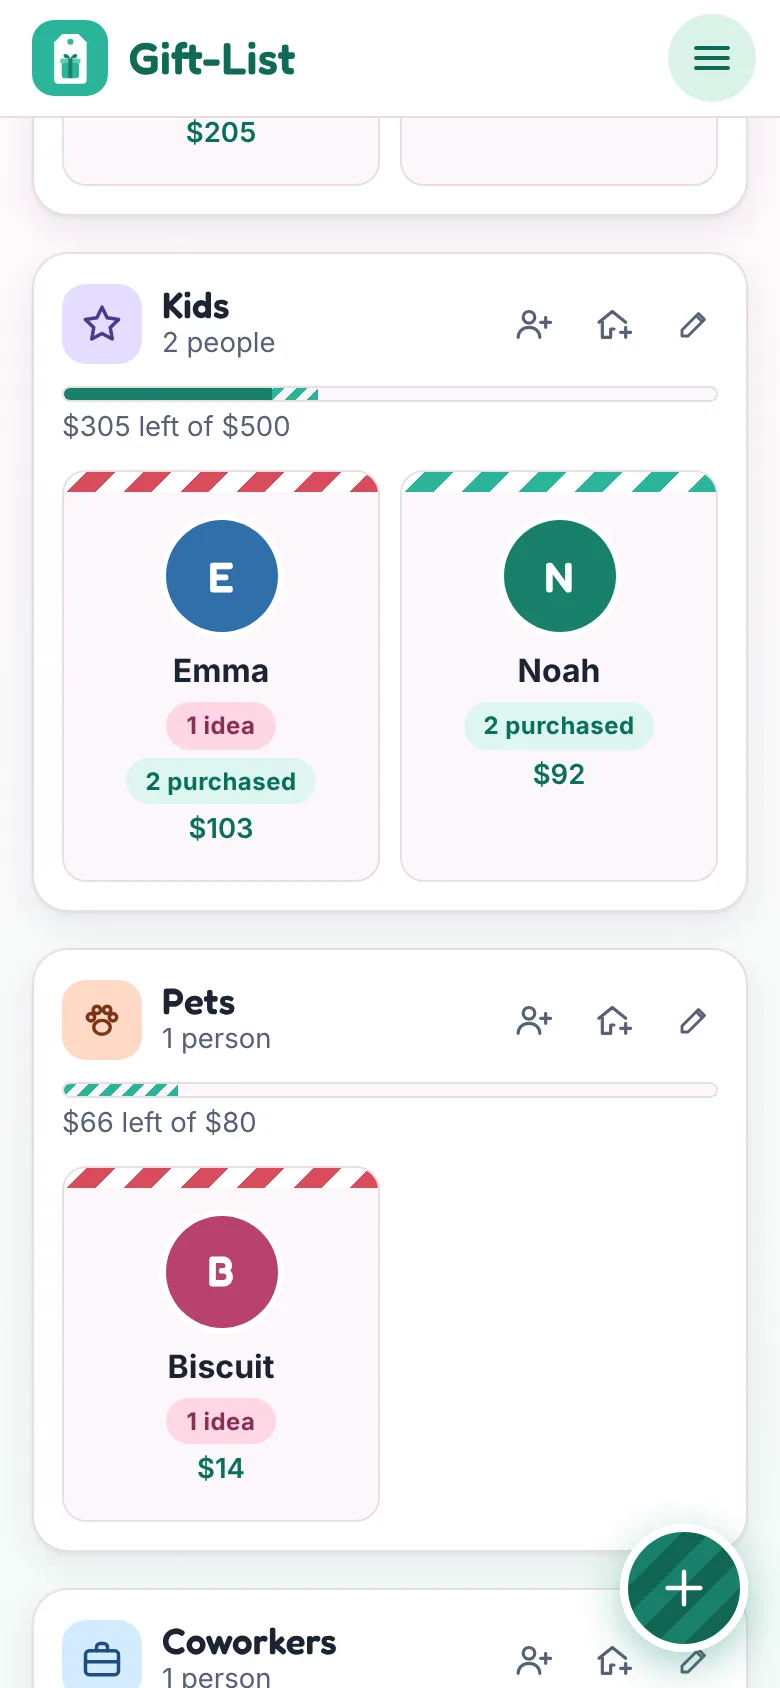
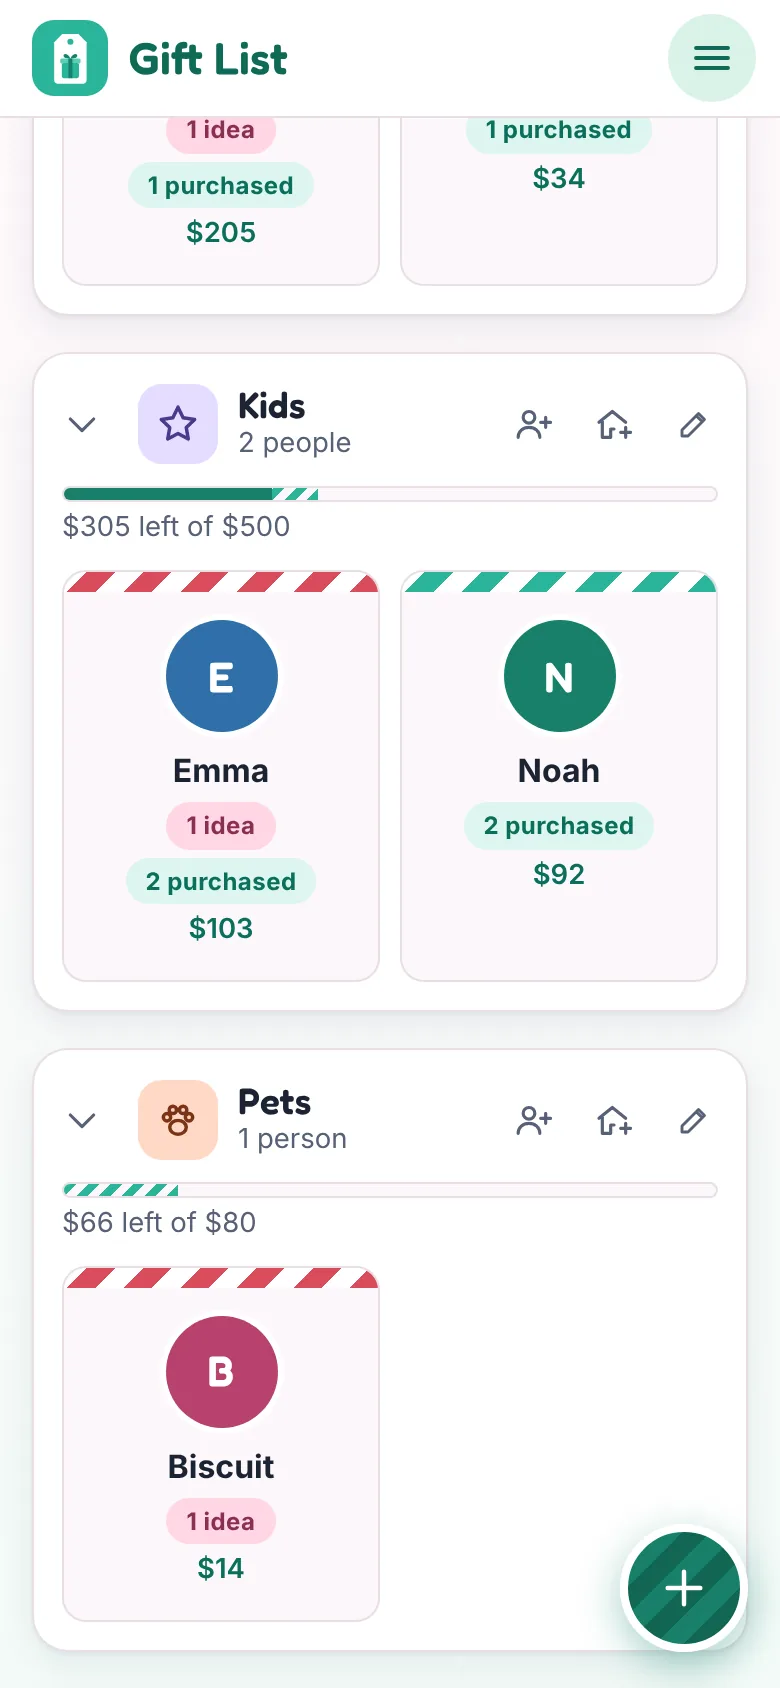
Gift List everywhere: tab title, Home Screen name, sign-in, settings, widget, docs, landing screens
Claude-Session: https://claude.ai/code/session_01QU72hNHumgCYNJom92zNrY

diff --git a/src/sheets/SettingsSheet.tsx b/src/sheets/SettingsSheet.tsx
@@ -488,13 +488,13 @@ function NotificationsSection({ householdId, userId }: { householdId: string; us
     <section className="stack section">
       {state === 'needs-install' && (
         <p className="muted small">
-          On iPhone, notifications only work from the Gift-List app on your Home Screen. Open it from there, then come
+          On iPhone, notifications only work from the Gift List app on your Home Screen. Open it from there, then come
           back to this switch.
         </p>
       )}
       {state === 'unsupported' && <p className="muted small">This phone's browser can't show notifications.</p>}
       {state === 'denied' && (
-        <p className="muted small">Notifications are blocked for Gift-List. Turn them on in your phone's settings.</p>
+        <p className="muted small">Notifications are blocked for Gift List. Turn them on in your phone's settings.</p>
       )}
       {(state === 'off' || state === 'on') && (
         <>
@@ -513,7 +513,7 @@ function NotificationsSection({ householdId, userId }: { householdId: string; us
   );
 }
 
-/** How to set up the iPhone Shortcut that shares shop pages into Gift-List. */
+/** How to set up the iPhone Shortcut that shares shop pages into Gift List. */
 function ShareShortcutHelp() {
   const address = `${window.location.origin}${import.meta.env.BASE_URL}#/add?url=`;
   const [copied, setCopied] = useState(false);
@@ -531,12 +531,12 @@ function ShareShortcutHelp() {
   return (
     <section className="stack section">
       <p className="muted small">
-        Set this up once on each phone. Then on any shop page, tap <strong>Share → Gift-List</strong> and the idea opens
+        Set this up once on each phone. Then on any shop page, tap <strong>Share → Gift List</strong> and the idea opens
         here with the link filled in.
       </p>
       <ol className="steps small">
         <li>
-          Open the <strong>Shortcuts</strong> app, tap <strong>+</strong>, and name it <strong>Gift-List</strong>.
+          Open the <strong>Shortcuts</strong> app, tap <strong>+</strong>, and name it <strong>Gift List</strong>.
         </li>
         <li>
           Tap the <strong>ⓘ</strong> details and turn on <strong>Show in Share Sheet</strong>. Set it to receive{' '}
@@ -554,11 +554,11 @@ function ShareShortcutHelp() {
         </li>
       </ol>
       <label className="field">
-        <span>Gift-List address for step 4</span>
+        <span>Gift List address for step 4</span>
         <input readOnly value={address} onFocus={(e) => e.currentTarget.select()} />
       </label>
       <button type="button" className="btn small" onClick={() => void copy()}>
-        {copied ? 'Copied!' : 'Copy the Gift-List address'}
+        {copied ? 'Copied!' : 'Copy the Gift List address'}
       </button>
     </section>
   );
@@ -601,8 +601,8 @@ function WidgetSection() {
       <ol className="steps small">
         <li>Install <strong>Scriptable</strong> from the App Store (free).</li>
         <li>Tap <strong>Make my widget link</strong> below, then <strong>Copy script</strong>.</li>
-        <li>In Scriptable tap <strong>+</strong>, paste the script, and name it Gift-List.</li>
-        <li>On your Home Screen touch and hold, tap <strong>+</strong>, pick <strong>Scriptable</strong>, add a widget, then tap it and choose the Gift-List script.</li>
+        <li>In Scriptable tap <strong>+</strong>, paste the script, and name it Gift List.</li>
+        <li>On your Home Screen touch and hold, tap <strong>+</strong>, pick <strong>Scriptable</strong>, add a widget, then tap it and choose the Gift List script.</li>
       </ol>
       <button type="button" className="btn primary" disabled={busy} onClick={() => void make()}>
         {busy ? 'Making…' : script ? 'Make a new link' : 'Make my widget link'}

diff --git a/src/screens/Landing.tsx b/src/screens/Landing.tsx
@@ -40,14 +40,14 @@ const FEATURES: Feature[] = [
   {
     icon: 'link',
     title: 'Share from any shop in two taps',
-    text: 'Found it online? Share the page to Gift-List and the name, store and link are filled in for you. Just pick who it is for.',
+    text: 'Found it online? Share the page to Gift List and the name, store and link are filled in for you. Just pick who it is for.',
     image: 'screen-add.webp',
     alt: 'The new gift idea form already filled in from a shared shop link',
   },
   {
     icon: 'settings',
     title: 'Made for both of you',
-    text: 'Invite your partner and you both see and edit the same list, live. Turn on notifications, add the phone widget and put Gift-List on your Home Screen.',
+    text: 'Invite your partner and you both see and edit the same list, live. Turn on notifications, add the phone widget and put Gift List on your Home Screen.',
     image: 'screen-settings.webp',
     alt: 'The settings menu with the list, who is on it, notifications, sharing and the phone widget',
   },
@@ -103,12 +103,12 @@ export function Landing({ notice }: { notice?: string | null }) {
               <p className="muted small">No app store. Works on any phone.</p>
             </div>
           </div>
-          <Phone src="screen-people.webp" alt="The Gift-List home screen with the Christmas countdown, budget and groups of people" eager />
+          <Phone src="screen-people.webp" alt="The Gift List home screen with the Christmas countdown, budget and groups of people" eager />
         </section>
 
         <div className="candy-rule" aria-hidden="true" />
 
-        <section className="landing-features" aria-label="What Gift-List does">
+        <section className="landing-features" aria-label="What Gift List does">
           {FEATURES.map((f, i) => (
             <article key={f.title} className={`landing-feature${i % 2 ? ' flip' : ''}`}>
               <div className="landing-feature-text">

diff --git a/src/lib/widget.ts b/src/lib/widget.ts
@@ -24,7 +24,7 @@ export async function requestWidgetLink(): Promise<string> {
   return body.url;
 }
 
-const SCRIPT = `// Gift-List widget for Scriptable
+const SCRIPT = `// Gift List widget for Scriptable
 const LINK = __LINK__;
 const SITE = __SITE__;
 const MINT = "#18806a";
@@ -142,7 +142,7 @@ function title(stack, size) {
   const mark = row.addImage(logo(44));
   mark.imageSize = new Size(size + 6, size + 6);
   row.addSpacer(5);
-  add(row, "Gift-List", size, "semibold", new Color("#ffffff", 0.92));
+  add(row, "Gift List", size, "semibold", new Color("#ffffff", 0.92));
   return row;
 }
 
@@ -174,7 +174,7 @@ function drawMedium(data, people, open, left, days) {
   ctx.setTextAlignedLeft();
   ctx.setFont(Font.semiboldRoundedSystemFont(13));
   ctx.setTextColor(new Color("#ffffff", 0.92));
-  ctx.drawTextInRect("Gift-List", new Rect(37, 13, LW - 42, 18));
+  ctx.drawTextInRect("Gift List", new Rect(37, 13, LW - 42, 18));
   ctx.setFont(Font.boldRoundedSystemFont(40));
   ctx.setTextColor(Color.white());
   ctx.drawTextInRect(String(data.days), new Rect(12, 38, LW - 16, 46));
@@ -230,7 +230,7 @@ const people = data && data.people ? data.people : [];
 
 if (family.indexOf("accessory") === 0) {
   w.addAccessoryWidgetBackground = true;
-  add(w, "Gift-List", 12, "semibold");
+  add(w, "Gift List", 12, "semibold");
   if (!data) {
     add(w, "Can't reach it", 13, "semibold");
   } else {
@@ -269,7 +269,7 @@ if (family.indexOf("accessory") === 0) {
   title(w, 13);
   w.addSpacer(4);
   if (!data) {
-    add(w, "Can't reach Gift-List", 15, "semibold", Color.white());
+    add(w, "Can't reach Gift List", 15, "semibold", Color.white());
   } else {
     add(w, days, family === "small" ? 34 : 42, "bold", Color.white());
     add(w, data.days === 0 ? "" : "to Christmas", 14, "semibold", new Color("#ffffff", 0.9));

diff --git a/index.html b/index.html
@@ -10,18 +10,18 @@
     <link rel="apple-touch-icon" href="/app-icon-180.png" />
     <meta name="apple-mobile-web-app-capable" content="yes" />
     <meta name="mobile-web-app-capable" content="yes" />
-    <meta name="apple-mobile-web-app-title" content="Gift-List" />
+    <meta name="apple-mobile-web-app-title" content="Gift List" />
     <meta name="apple-mobile-web-app-status-bar-style" content="default" />
     <link rel="preconnect" href="https://fonts.googleapis.com" />
     <link rel="preconnect" href="https://fonts.gstatic.com" crossorigin />
     <link href="https://fonts.googleapis.com/css2?family=Fredoka:wght@500;600;700&display=swap" rel="stylesheet" />
     <meta name="description" content="A playful shared Christmas gift list and budget for you and your partner. Ideas, prices, pictures and who is buying what." />
     <meta property="og:type" content="website" />
-    <meta property="og:title" content="Gift-List: Christmas, sorted. Together." />
+    <meta property="og:title" content="Gift List: Christmas, sorted. Together." />
     <meta property="og:description" content="The shared gift list and budget for you and your partner. Free." />
     <meta property="og:image" content="https://gon3tom-32.github.io/Gift-List/landing/screen-people.webp" />
     <meta name="twitter:card" content="summary" />
-    <title>Gift-List</title>
+    <title>Gift List</title>
   </head>
   <body>
     <div id="root"></div>

diff --git a/src/screens/SignIn.tsx b/src/screens/SignIn.tsx
@@ -76,7 +76,7 @@ export function SignIn({ notice, embedded }: { notice?: string | null; embedded?
         <div className="signin-badge" aria-hidden="true">
           <Icon name="gift" size={40} />
         </div>
-        <h1 className="display">Gift-List</h1>
+        <h1 className="display">Gift List</h1>
         <p className="muted">{countdownText()}. Let's get the list sorted together.</p>
 
         {state === 'sent' ? (
@@ -163,7 +163,7 @@ export function SignIn({ notice, embedded }: { notice?: string | null; embedded?
       </div>
 
       {!embedded && (
-        <section className="how-it-works" aria-label="How Gift-List works">
+        <section className="how-it-works" aria-label="How Gift List works">
           <h2 className="h4">How it works</h2>
           <ol>
             <li>

diff --git a/src/lib/push.ts b/src/lib/push.ts
@@ -44,7 +44,7 @@ export async function pushState(): Promise<PushState> {
 
 /** Asks permission and saves this phone's push address. Must run from a tap. */
 export async function enablePush(householdId: string, userId: string): Promise<void> {
-  if (!canPush()) throw new Error('Notifications need the Gift-List app on your Home Screen.');
+  if (!canPush()) throw new Error('Notifications need the Gift List app on your Home Screen.');
   const permission = await Notification.requestPermission();
   if (permission !== 'granted') throw new Error('Notifications are blocked. Turn them on in your phone settings.');
   const reg = await navigator.serviceWorker.ready;

diff --git a/src/lib/widget.test.ts b/src/lib/widget.test.ts
@@ -125,7 +125,7 @@ describe('the widget script when it runs', () => {
     expect(out.urls).toContain('https://site.test/Gift-List/#/person/p1');
     expect(out.urls).toContain('https://site.test/Gift-List/#/person/p4');
     // The medium widget is drawn as one picture, so its words are drawn text rather than stack text.
-    expect(out.draws).toContain('Gift-List');
+    expect(out.draws).toContain('Gift List');
     expect(out.draws).toContain('63');
     expect(out.draws).toContain('5 gifts open');
     expect(out.draws).toContain('$892 left');

diff --git a/src/components/Logo.tsx b/src/components/Logo.tsx
@@ -1,4 +1,4 @@
-/** The Gift-List mark: a hang tag with a small present, in a mint tile. */
+/** The Gift List mark: a hang tag with a small present, in a mint tile. */
 export function Logo({ size = 38 }: { size?: number }) {
   return (
     <span className="logo" style={{ width: size, height: size }} aria-hidden="true">

diff --git a/public/sw.js b/public/sw.js
@@ -1,6 +1,6 @@
 // Shows push notifications and opens the app when one is tapped.
 self.addEventListener('push', (event) => {
-  let data = { title: 'Gift-List', body: '' };
+  let data = { title: 'Gift List', body: '' };
   try {
     data = { ...data, ...event.data.json() };
   } catch {

diff --git a/src/styles.css b/src/styles.css
@@ -1,4 +1,4 @@
-/* Gift-List: snowy, candy-cane and mint. Mobile first. */
+/* Gift List: snowy, candy-cane and mint. Mobile first. */
 
 :root {
   --font-display: 'Fredoka', ui-rounded, 'SF Pro Rounded', system-ui, sans-serif;

diff --git a/docs/share-from-any-site.md b/docs/share-from-any-site.md
@@ -1,6 +1,6 @@
-# "Share to our app from any site": how Gift-List does it, and how to reuse it
+# "Share to our app from any site": how Gift List does it, and how to reuse it
 
-This guide explains the feature in Gift-List where you tap **Share** on any shop page, choose the app, and a new idea opens already filled in with the product's name, picture and price. It is written so the same idea can be rebuilt for another product, for example **sharing a vehicle listing from another site into an Autotrader / AI Mode experience**. Wherever Gift-List captures gift details, you would capture vehicle details instead.
+This guide explains the feature in Gift List where you tap **Share** on any shop page, choose the app, and a new idea opens already filled in with the product's name, picture and price. It is written so the same idea can be rebuilt for another product, for example **sharing a vehicle listing from another site into an Autotrader / AI Mode experience**. Wherever Gift List captures gift details, you would capture vehicle details instead.
 
 ---
 
@@ -27,7 +27,7 @@ The rule that holds it all together: **reading the page is a convenience, never 
 
 ## 2. Piece one: getting the link into the app
 
-### iPhone: a Shortcut in the Share Sheet (what Gift-List uses)
+### iPhone: a Shortcut in the Share Sheet (what Gift List uses)
 
 A web app saved to the Home Screen cannot register itself in the iPhone Share Sheet, so each person makes a tiny Shortcut once. The app's Settings screen shows these steps with a copy button for the address:
 
@@ -53,7 +53,7 @@ Android supports a real **Web Share Target**: add a `share_target` to the web ap
 }
 ```
 
-(Gift-List does not use this yet because iPhone is the main device. If the Autotrader audience includes Android, add it. Test the hash-route interaction on a real device.)
+(Gift List does not use this yet because iPhone is the main device. If the Autotrader audience includes Android, add it. Test the hash-route interaction on a real device.)
 
 ### Always keep a manual path
 
@@ -70,11 +70,11 @@ https://app.example/#/add?url=<link>          (preferred)
 https://app.example/#/add?text=<anything>     (some apps share text only)
 ```
 
-Gift-List uses a **hash route** (`#/…`) because it is hosted on GitHub Pages, so there is no server-side routing. With a real server you can use a normal path (`/add?url=`). Either way, parse it in one small, well-tested function.
+Gift List uses a **hash route** (`#/…`) because it is hosted on GitHub Pages, so there is no server-side routing. With a real server you can use a normal path (`/add?url=`). Either way, parse it in one small, well-tested function.
 
 ### Shared content is messy. Parse defensively
 
-Real shares look like: `Check out this car https://a.co/xyz`, or the link is encoded, or not, or contains its own `&`. Gift-List's `parseShare` handles it like this:
+Real shares look like: `Check out this car https://a.co/xyz`, or the link is encoded, or not, or contains its own `&`. Gift List's `parseShare` handles it like this:
 
 - If the query starts with `url=`, treat **everything after it** as the shared thing (even if it contains `&`).
 - Otherwise read `url` and `text` parameters.
@@ -116,7 +116,7 @@ When the app sees the `add` route and the user's data has loaded:
 
 ### The form: fast, forgiving, never blocked
 
-- **Only the minimum is required** (Gift-List: just a name. For vehicles: probably just the link, or year/make/model).
+- **Only the minimum is required** (Gift List: just a name. For vehicles: probably just the link, or year/make/model).
 - When a link is present, wait ~400 ms (debounce), then call the lookup. Show "Looking up the link…" in the field hint, not as a blocking spinner.
 - When the answer arrives, **fill only fields the person has not already touched** (a `touched` ref per field). Never overwrite typing.
 - Show where a value came from ("Price from Cars.com. Change it if you like.").
@@ -127,7 +127,7 @@ When the app sees the `add` route and the user's data has loaded:
 
 ## 4. Piece three: the server function that reads the page
 
-Browsers cannot read other sites' pages (CORS), so a small server function does it. Gift-List uses a **Supabase Edge Function** (Deno), but any serverless runtime works.
+Browsers cannot read other sites' pages (CORS), so a small server function does it. Gift List uses a **Supabase Edge Function** (Deno), but any serverless runtime works.
 
 ### API shape
 
@@ -140,7 +140,7 @@ Both require a **signed-in user** (check the session token inside the function).
 
 ### Safety rules (non-negotiable, because it fetches arbitrary URLs for strangers)
 
-This is an SSRF risk (server-side request forgery). Gift-List's rules:
+This is an SSRF risk (server-side request forgery). Gift List's rules:
 
 - Only `http`/`https`, standard ports (80/443), no `user:password@` in the URL.
 - Block `localhost`, `*.localhost`, `*.internal`.
@@ -161,7 +161,7 @@ Try the most reliable, most generic sources first; fall back to site-specific on
 1. **Open Graph / Twitter meta tags** (`og:title`, `og:image`, `og:site_name`, `product:price:amount`, `og:price:amount`).
 2. **JSON-LD structured data** in `<script type="application/ld+json">`. This is where listing sites usually put the good stuff. Parse it as JSON, walk the tree, and read the node whose `@type` is what you want. **Do not take "the first price anywhere on the page"**: Best Buy listed a protection plan before the product and we showed the wrong price. Scope to the product node's `offers`.
 3. **Microdata** (`itemprop="price"`) and `<link rel="image_src">`.
-4. **Site-specific parsers** for the sites that matter most (Gift-List has one for Amazon: phone-layout image attributes, the `a-offscreen` price block, ASIN). Keep each one small, with sample HTML in the tests.
+4. **Site-specific parsers** for the sites that matter most (Gift List has one for Amazon: phone-layout image attributes, the `a-offscreen` price block, ASIN). Keep each one small, with sample HTML in the tests.
 5. **Embedded page state** (some sites ship `"currentPrice":9.99` in a JSON blob).
 6. **Last resort:** an LLM extraction pass on the cleaned page text (see section 8).
 
@@ -196,7 +196,7 @@ share → deep link → form opens (link + hint filled)
 
 ## 6. What to capture for vehicle listings (Autotrader version)
 
-Gift-List captures: name, store, link, photo, estimate, status. For a vehicle listing, plan for something like:
+Gift List captures: name, store, link, photo, estimate, status. For a vehicle listing, plan for something like:
 
 | Field | Where it usually comes from |
 |---|---|
@@ -221,7 +221,7 @@ Design notes specific to vehicles:
 
 ## 7. Money and data rules worth copying
 
-- Store money as exact decimals (or whole cents), never floats. Gift-List keeps `numeric(12,2)` in Postgres and whole cents in the app.
+- Store money as exact decimals (or whole cents), never floats. Gift List keeps `numeric(12,2)` in Postgres and whole cents in the app.
 - Row-level security on every table; every policy checks membership. Add a test for each new table.
 - Photos in a private bucket; save paths, create short-lived signed URLs when displaying.
 - Keep list data out of `localStorage`; use it only for tiny per-device conveniences.
@@ -289,7 +289,7 @@ The extraction pipeline gives AI Mode something much better than a raw link: **a
 
 ---
 
-### Where the Gift-List code lives (for reference)
+### Where the Gift List code lives (for reference)
 
 | Part | File |
 |---|---|

diff --git a/docs/sign-up-and-limits.md b/docs/sign-up-and-limits.md
@@ -25,13 +25,13 @@ Photos are also limited by the `gift-photos` bucket: 5 MB, JPEG/WebP/PNG. The ap
 Supabase's built-in email is tiny (a few emails per hour) and meant for testing. Before sharing widely:
 
 1. **Email service.** Make a free account with an email service such as Resend. Verify a sending domain, or at least a sender address.
-2. **SMTP.** Supabase dashboard, Authentication, Emails, SMTP Settings: turn on custom SMTP, paste the host, port, username and password from the email service, sender name "Gift-List".
+2. **SMTP.** Supabase dashboard, Authentication, Emails, SMTP Settings: turn on custom SMTP, paste the host, port, username and password from the email service, sender name "Gift List".
 3. **Rate limit.** Authentication, Rate Limits: raise "emails sent per hour" (for example to 100).
-4. **Friendlier email.** Authentication, Emails, Templates, "Magic Link". Suggested subject: `Your Gift-List sign-in link`. Suggested body:
+4. **Friendlier email.** Authentication, Emails, Templates, "Magic Link". Suggested subject: `Your Gift List sign-in link`. Suggested body:
    ```html
    <h2>Ho ho hello!</h2>
-   <p>Tap the button to open your Gift-List.</p>
-   <p><a href="{{ .ConfirmationURL }}">Open my Gift-List</a></p>
+   <p>Tap the button to open your Gift List.</p>
+   <p><a href="{{ .ConfirmationURL }}">Open my Gift List</a></p>
    <p>If you didn't ask for this, you can ignore this email.</p>
    ```
    Do the same for the "Confirm signup" template.
